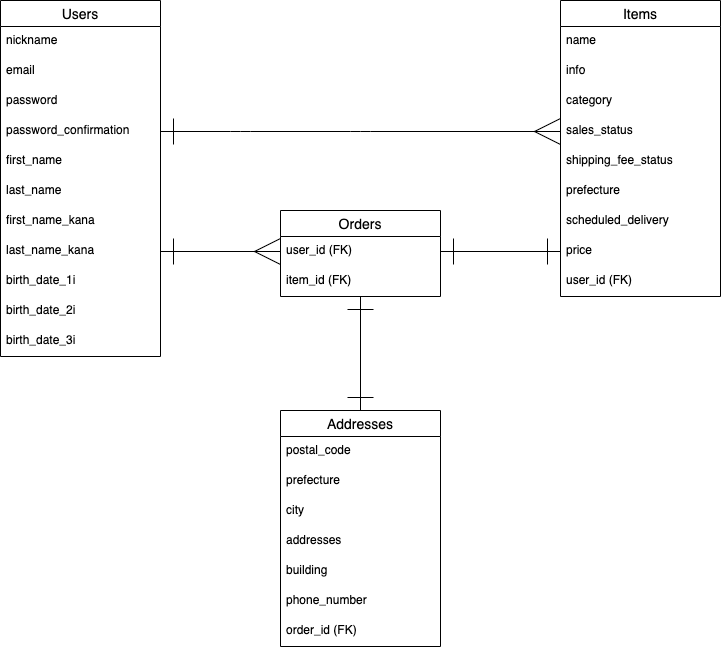
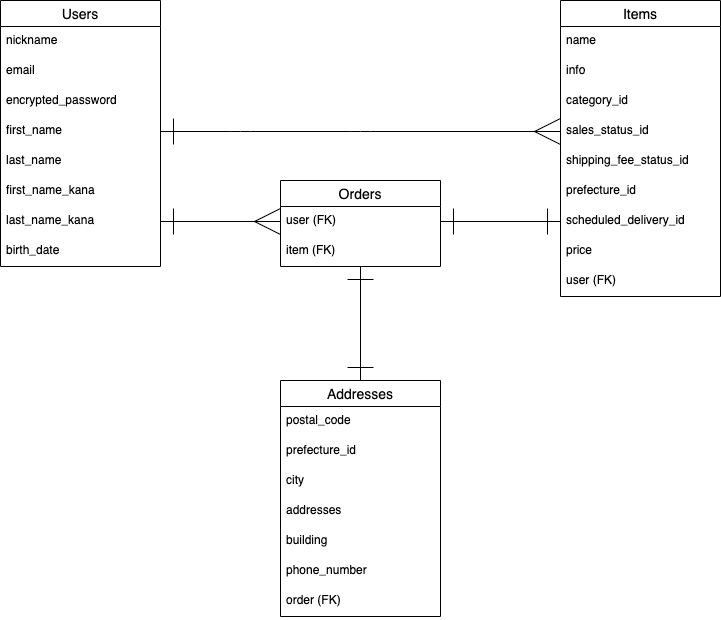
コメント箇所の修正

diff --git a/README.md b/README.md
@@ -11,9 +11,7 @@
 | last_name          | string  | null: false               |
 | first_name_kana    | string  | null: false               |
 | last_name_kana     | string  | null: false               |
-| birth_date_1i      | integer | null: false               |
-| birth_date_2i      | integer | null: false               |
-| birth_date_3i      | integer | null: false               |
+| birth_date         | date    | null: false               |
 
 ### Association
 
@@ -22,17 +20,17 @@
 
 ## items テーブル
 
-| Column              | Type       | Options                        |
-| ------------------- | ---------- | ------------------------------ |
-| name                | string     | null: false                    |
-| info                | text       | null: false                    |
-| category            | integer    | null: false                    |
-| sales_status        | integer    | null: false                    |
-| shipping_fee_status | integer    | null: false                    |
-| prefecture          | integer    | null: false                    |
-| scheduled_delivery  | integer    | null: false                    |
-| price               | integer    | null: false                    |
-| user                | references | null: false, foreign_key: true |
+| Column                 | Type       | Options                        |
+| ---------------------- | ---------- | ------------------------------ |
+| name                   | string     | null: false                    |
+| info                   | text       | null: false                    |
+| category_id            | integer    | null: false                    |
+| sales_status_id        | integer    | null: false                    |
+| shipping_fee_status_id | integer    | null: false                    |
+| prefecture_id          | integer    | null: false                    |
+| scheduled_delivery_id  | integer    | null: false                    |
+| price                  | integer    | null: false                    |
+| user                   | references | null: false, foreign_key: true |
 
 ### Association
 
@@ -54,15 +52,15 @@
 
 ## addresses テーブル
 
-| Column       | Type       | Options                        |
-| ------------ | ---------- | ------------------------------ |
-| postal_code  | string     | null: false                    |
-| prefecture   | integer    | null: false                    |
-| city         | string     | null: false                    |
-| addressed    | string     | null: false                    |
-| building     | string     |                                |
-| phone_number | string     | null: false                    |
-| order        | references | null: false, foreign_key: true |
+| Column        | Type       | Options                        |
+| ------------- | ---------- | ------------------------------ |
+| postal_code   | string     | null: false                    |
+| prefecture_id | integer    | null: false                    |
+| city          | string     | null: false                    |
+| addresses     | string     | null: false                    |
+| building      | string     |                                |
+| phone_number  | string     | null: false                    |
+| order         | references | null: false, foreign_key: true |
 
 ### Association
 
